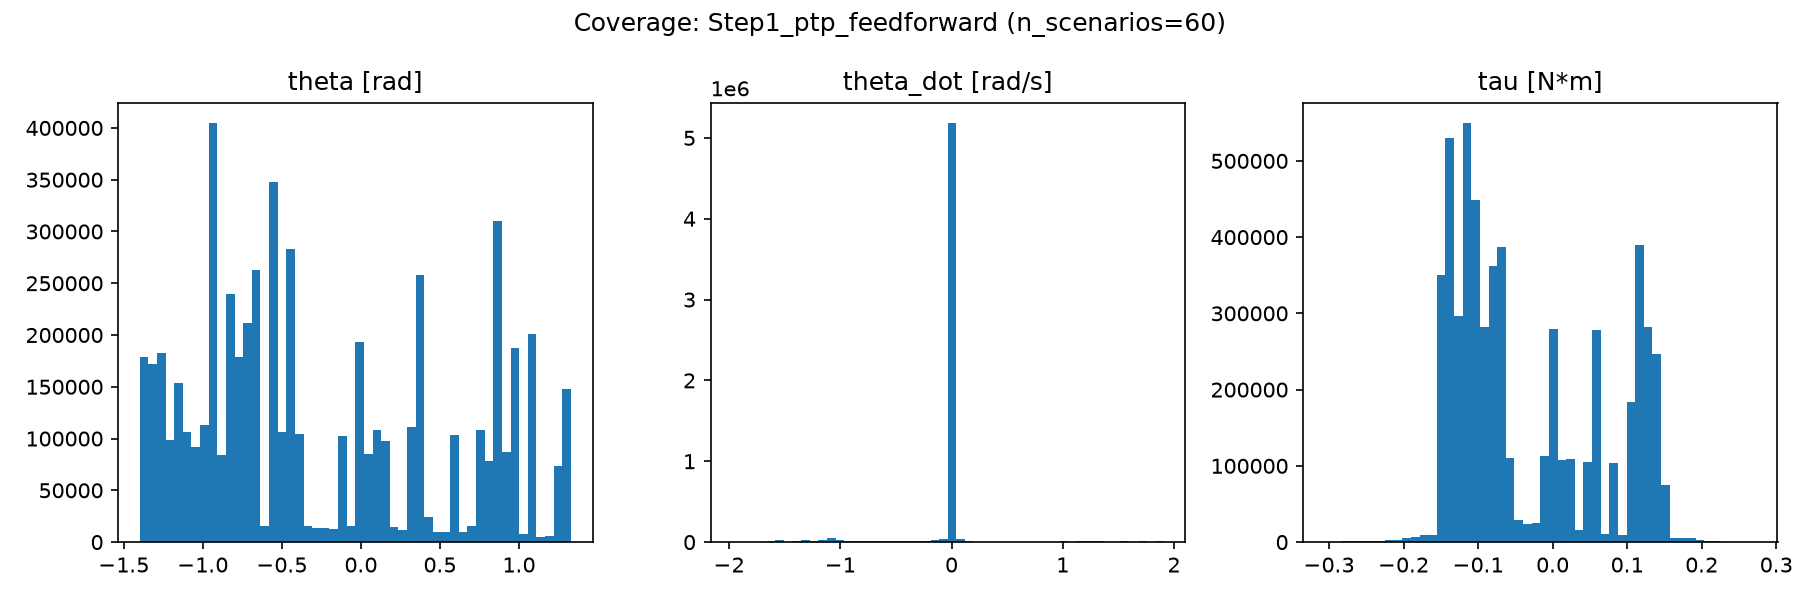
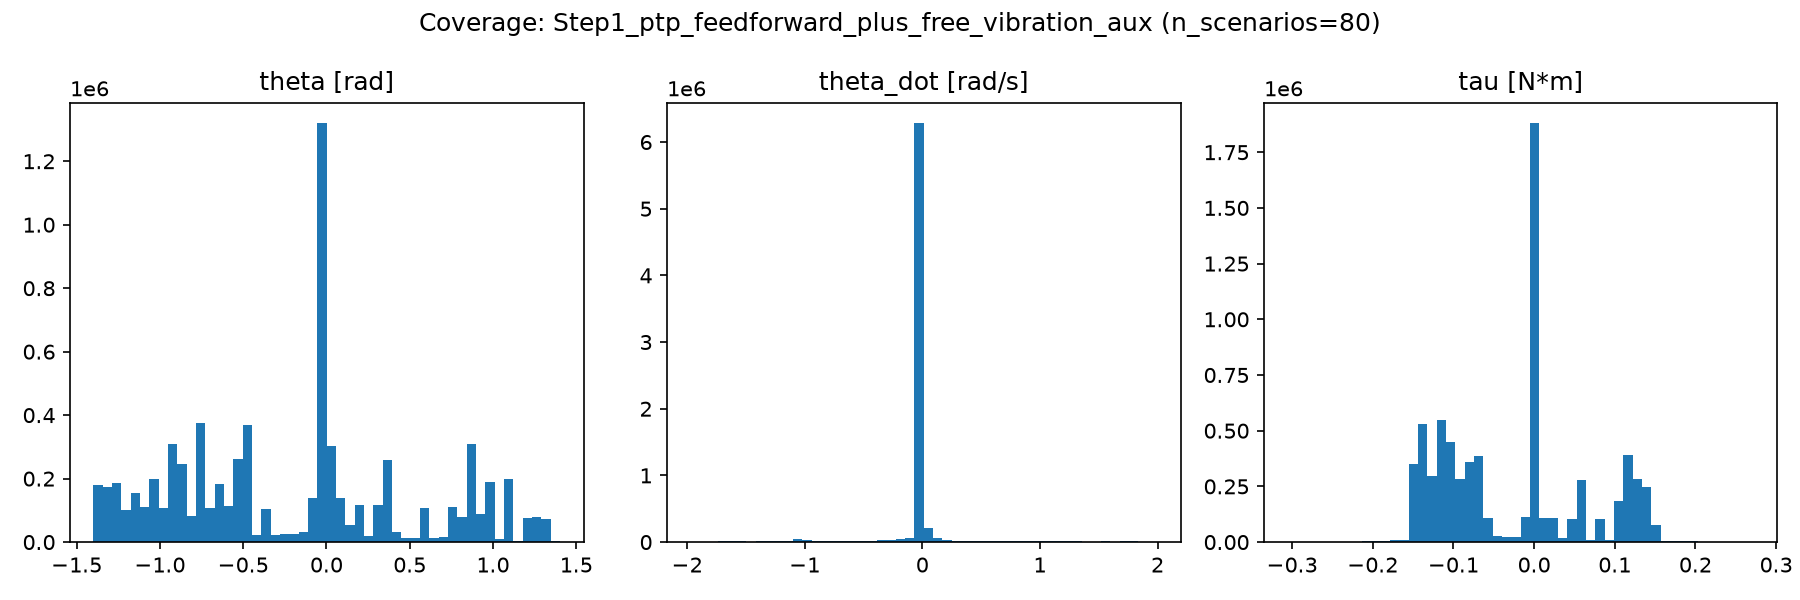
Add free-vibration auxiliary data (issue #10), partial improvement + new M-04 finding
gen_training_data.m now generates 20 additional free-vibration (random
initial condition, tau=0) scenarios alongside the 60 PTP-feedforward ones
(仕様書§4.1 auxiliary signal), split together into train/val/test.

Retrained on the 80-scenario dataset: 1-step validation error improved
(0.048 -> 0.026 rad). Re-ran Phase4 diagnostics:
- Free rollout: still bounded (PASS)
- Equilibrium eigenvalues: still stable (PASS, spectral radius 0.998)
- Zero-input energy: spurious rest point moved closer to theta=0 (0.62 ->
  0.27 rad) but still doesn't fully decay - still FAIL
- M-04 sign consistency: NEW FINDING - 4.32% of validation points (1214/28106)
  now show sign reversal, concentrated on the free-vibration decay spirals.
  This region was previously uncovered by data (and thus untested) - adding
  coverage revealed a latent weakness rather than fixing everything.

Documented in 03_実装計画書.md with three follow-up options (more training,
treat as Ablation-F evidence toward a direction-constrained architecture, or
proceed to Phase5 and reassess under closed-loop conditions) - left for user
decision, not resolved in this commit.

Ref #10

Claude-Session: https://claude.ai/code/session_01ARSgMeydwHLemQDBDpsw9q

diff --git a/matlab/gen_training_data.m b/matlab/gen_training_data.m
@@ -1,16 +1,21 @@
-function manifest = gen_training_data(n_scenarios, seed, out_dir)
-%GEN_TRAINING_DATA Phase2 Step1: PTP feedforward-torque training data.
-%   manifest = gen_training_data(n_scenarios, seed, out_dir)
+function manifest = gen_training_data(n_scenarios, seed, out_dir, n_free_vibration)
+%GEN_TRAINING_DATA Phase2 Step1: PTP feedforward torque + free-vibration auxiliary data.
+%   manifest = gen_training_data(n_scenarios, seed, out_dir, n_free_vibration)
 %
-%   For each scenario: sample a random PTP move (start/target angle within
-%   the pendulum's operating range), build a trapezoidal-velocity
-%   reference trajectory, compute the inverse-dynamics feedforward torque,
-%   saturate it, and run it through the real plant (simulate_pendulum) to
-%   record the actual (theta, theta_dot, tau) response. This is the
-%   standard-configuration Step1 dataset (仕様書§4.1); Step2/3 are added
-%   later only if Phase5 closed-loop testing shows it's needed.
+%   Two scenario types are generated (仕様書§4.1):
+%     1. PTP feedforward: sample a random PTP move, build a trapezoidal-
+%        velocity reference trajectory, compute the inverse-dynamics
+%        feedforward torque, saturate it, and run it through the real
+%        plant (simulate_pendulum) to record the actual (theta, theta_dot,
+%        tau) response. This is the Step1 standard configuration.
+%     2. Free vibration (auxiliary, all stages): random initial condition,
+%        tau=0 throughout. Without this, the dataset never contains true
+%        zero-torque samples away from theta=0 (PTP dwell segments still
+%        apply gravity-compensation torque), which was found in Phase4 to
+%        leave the trained surrogate without a correctly-damped zero-input
+%        response away from theta=0 (see issue #10).
 %
-%   Scenarios are split train/val/test (70/15/15) by scenario, matching
+%   All scenarios are split train/val/test (70/15/15) together, matching
 %   仕様書§4.3. Returns the manifest struct and also writes it as JSON to
 %   <out_dir>/manifest.json.
 
@@ -22,6 +27,9 @@ if nargin < 2 || isempty(seed)
 end
 if nargin < 3 || isempty(out_dir)
     out_dir = fullfile(fileparts(mfilename('fullpath')), '..', 'python', 'data');
+end
+if nargin < 4 || isempty(n_free_vibration)
+    n_free_vibration = 20;
 end
 
 addpath(fileparts(mfilename('fullpath')));
@@ -37,6 +45,7 @@ margin = 0.05 * (params.theta_max - params.theta_min); % keep clear of hard rang
 lo = params.theta_min + margin;
 hi = params.theta_max - margin;
 
+n_total = n_scenarios + n_free_vibration;
 entries = struct('file', {}, 'theta_start', {}, 'theta_end', {}, 'duration', {});
 
 for i = 1:n_scenarios
@@ -77,22 +86,49 @@ for i = 1:n_scenarios
     entries(i).duration = T_total;
 end
 
-% Shuffle scenario order and split 70/15/15 by scenario.
-order = randperm(n_scenarios);
-n_train = round(0.70 * n_scenarios);
-n_val = round(0.15 * n_scenarios);
+for j = 1:n_free_vibration
+    i = n_scenarios + j;
+    theta0 = lo + (hi - lo) * rand();
+    theta_dot0 = -2.0 + 4.0 * rand(); % +-2 rad/s, matches PTP-observed theta_dot range
+    T_total = 10; % s, several damping time constants (see matlab/verify_plant.m)
 
-splits = repmat({'test'}, 1, n_scenarios);
+    N = round(T_total / params.Ts_ctrl);
+    tau_seq = zeros(N, 1);
+    [t, theta, theta_dot] = simulate_pendulum([theta0; theta_dot0], tau_seq, params);
+
+    meta = struct('Ts', params.Ts_ctrl, 'seed', seed, 'scenario_id', i, ...
+        'scenario_type', 'free_vibration_zero_input', 'theta_start', theta0, ...
+        'theta_end', NaN, 'theta_dot_start', theta_dot0);
+
+    filename = sprintf('scenario_%03d.mat', i);
+    filepath = fullfile(out_dir, filename);
+    tau_logged = [tau_seq; tau_seq(end)];
+    utils.export_dataset(filepath, t, theta, theta_dot, tau_logged, meta);
+
+    entries(i).file = filename;
+    entries(i).theta_start = theta0;
+    entries(i).theta_end = NaN;
+    entries(i).duration = T_total;
+end
+
+% Shuffle scenario order and split 70/15/15 across both scenario types together.
+order = randperm(n_total);
+n_train = round(0.70 * n_total);
+n_val = round(0.15 * n_total);
+
+splits = repmat({'test'}, 1, n_total);
 splits(order(1:n_train)) = {'train'};
 splits(order(n_train+1 : n_train+n_val)) = {'val'};
 
-for i = 1:n_scenarios
+for i = 1:n_total
     entries(i).split = splits{i};
 end
 
 manifest.seed = seed;
-manifest.n_scenarios = n_scenarios;
-manifest.step = 'Step1_ptp_feedforward';
+manifest.n_scenarios = n_total;
+manifest.n_ptp_feedforward = n_scenarios;
+manifest.n_free_vibration = n_free_vibration;
+manifest.step = 'Step1_ptp_feedforward_plus_free_vibration_aux';
 manifest.Ts = params.Ts_ctrl;
 manifest.scenarios = entries;
 
@@ -101,7 +137,7 @@ fid = fopen(manifest_path, 'w');
 fwrite(fid, jsonencode(manifest, 'PrettyPrint', true));
 fclose(fid);
 
-fprintf('Generated %d scenarios -> %s (train=%d, val=%d, test=%d)\n', ...
-    n_scenarios, out_dir, n_train, n_val, n_scenarios - n_train - n_val);
+fprintf('Generated %d scenarios (%d PTP + %d free-vibration) -> %s (train=%d, val=%d, test=%d)\n', ...
+    n_total, n_scenarios, n_free_vibration, out_dir, n_train, n_val, n_total - n_train - n_val);
 
 end

diff --git a/03_実装計画書.md b/03_実装計画書.md
@@ -136,8 +136,30 @@ N=1固定モデルは1step誤差自体は極めて小さいが、50stepロール
 データは静止区間でも重力補償トルク(tau_ff = mgl*sin(theta_end))を印加しており、
 真にtau=0の学習サンプルがtheta=0近傍にしか存在しない。この結果、モデルはtheta=0から
 離れた位置でのtau=0時の正しい減衰的動特性を学習できておらず、アブレーション実験Aの
-データカバレッジ不足パターンに合致する。**対応**: Phase2に「補助信号(ランダム初期値+
-ゼロ入力の自由振動)」を追加し、Phase3を再学習した上でPhase4を再実行する(別issueで対応)。
+データカバレッジ不足パターンに合致する。
+
+**対応後の再検証結果(2026-09-13、gen_training_data.mに自由振動補助信号20本を追加、
+計80シナリオで再学習、20エポック/stageは変更なし)**:
+
+| 検証項目 | 対応前 | 対応後 |
+|---|---|---|
+| 長時間自由ロールアウト(発散有無) | PASS | PASS(max\|theta_hat\|=0.93rad) |
+| 平衡点固有値 | PASS(0.9973) | PASS(0.9983) |
+| ゼロ入力エネルギー単調性 | FAIL(スプリアス定常点θ≈0.62rad) | **FAIL(改善はしたがθ≈0.27radへの
+  収束が残る。10/19999stepでエネルギー増加)** |
+| M-04入出力方向整合性 | PASS(0/22941点) | **FAIL(1214/28106点=4.32%で符号反転、
+  自由振動の減衰螺旋軌道上に集中)** |
+
+補助信号追加によりスプリアス定常点はθ=0に近づいた(0.62rad→0.27rad)が完全には解消せず、
+むしろ新たに(θ, θ_dot)空間の未検証領域(自由振動軌道)がカバーされたことで、そこに
+潜在していたM-04符号反転(4.32%)が可視化された。これは「データを増やす前は検証すら
+できていなかった弱点」であり、20エポック/stageでの学習収束が不十分である可能性が高い
+(1step誤差は0.048→0.026radへ改善しているため、学習自体は進んでいる)。
+
+**今後の対応方針(要判断)**: (a)エポック数・ネットワーク容量を増やして再学習し収束を
+図る、(b)これをアブレーション実験F(M-04仮説)の支持材料とみなし、方向制約付き
+アーキテクチャの検討に進む、(c)現状のまま許容してPhase5(閉ループ検証)へ進み実際の
+閉ループ挙動で深刻度を再評価する、の3択がある。ユーザー判断待ち。
 
 ### Phase 5: MATLAB/Simulink結合・閉ループ検証(所要目安: 2日)
 
